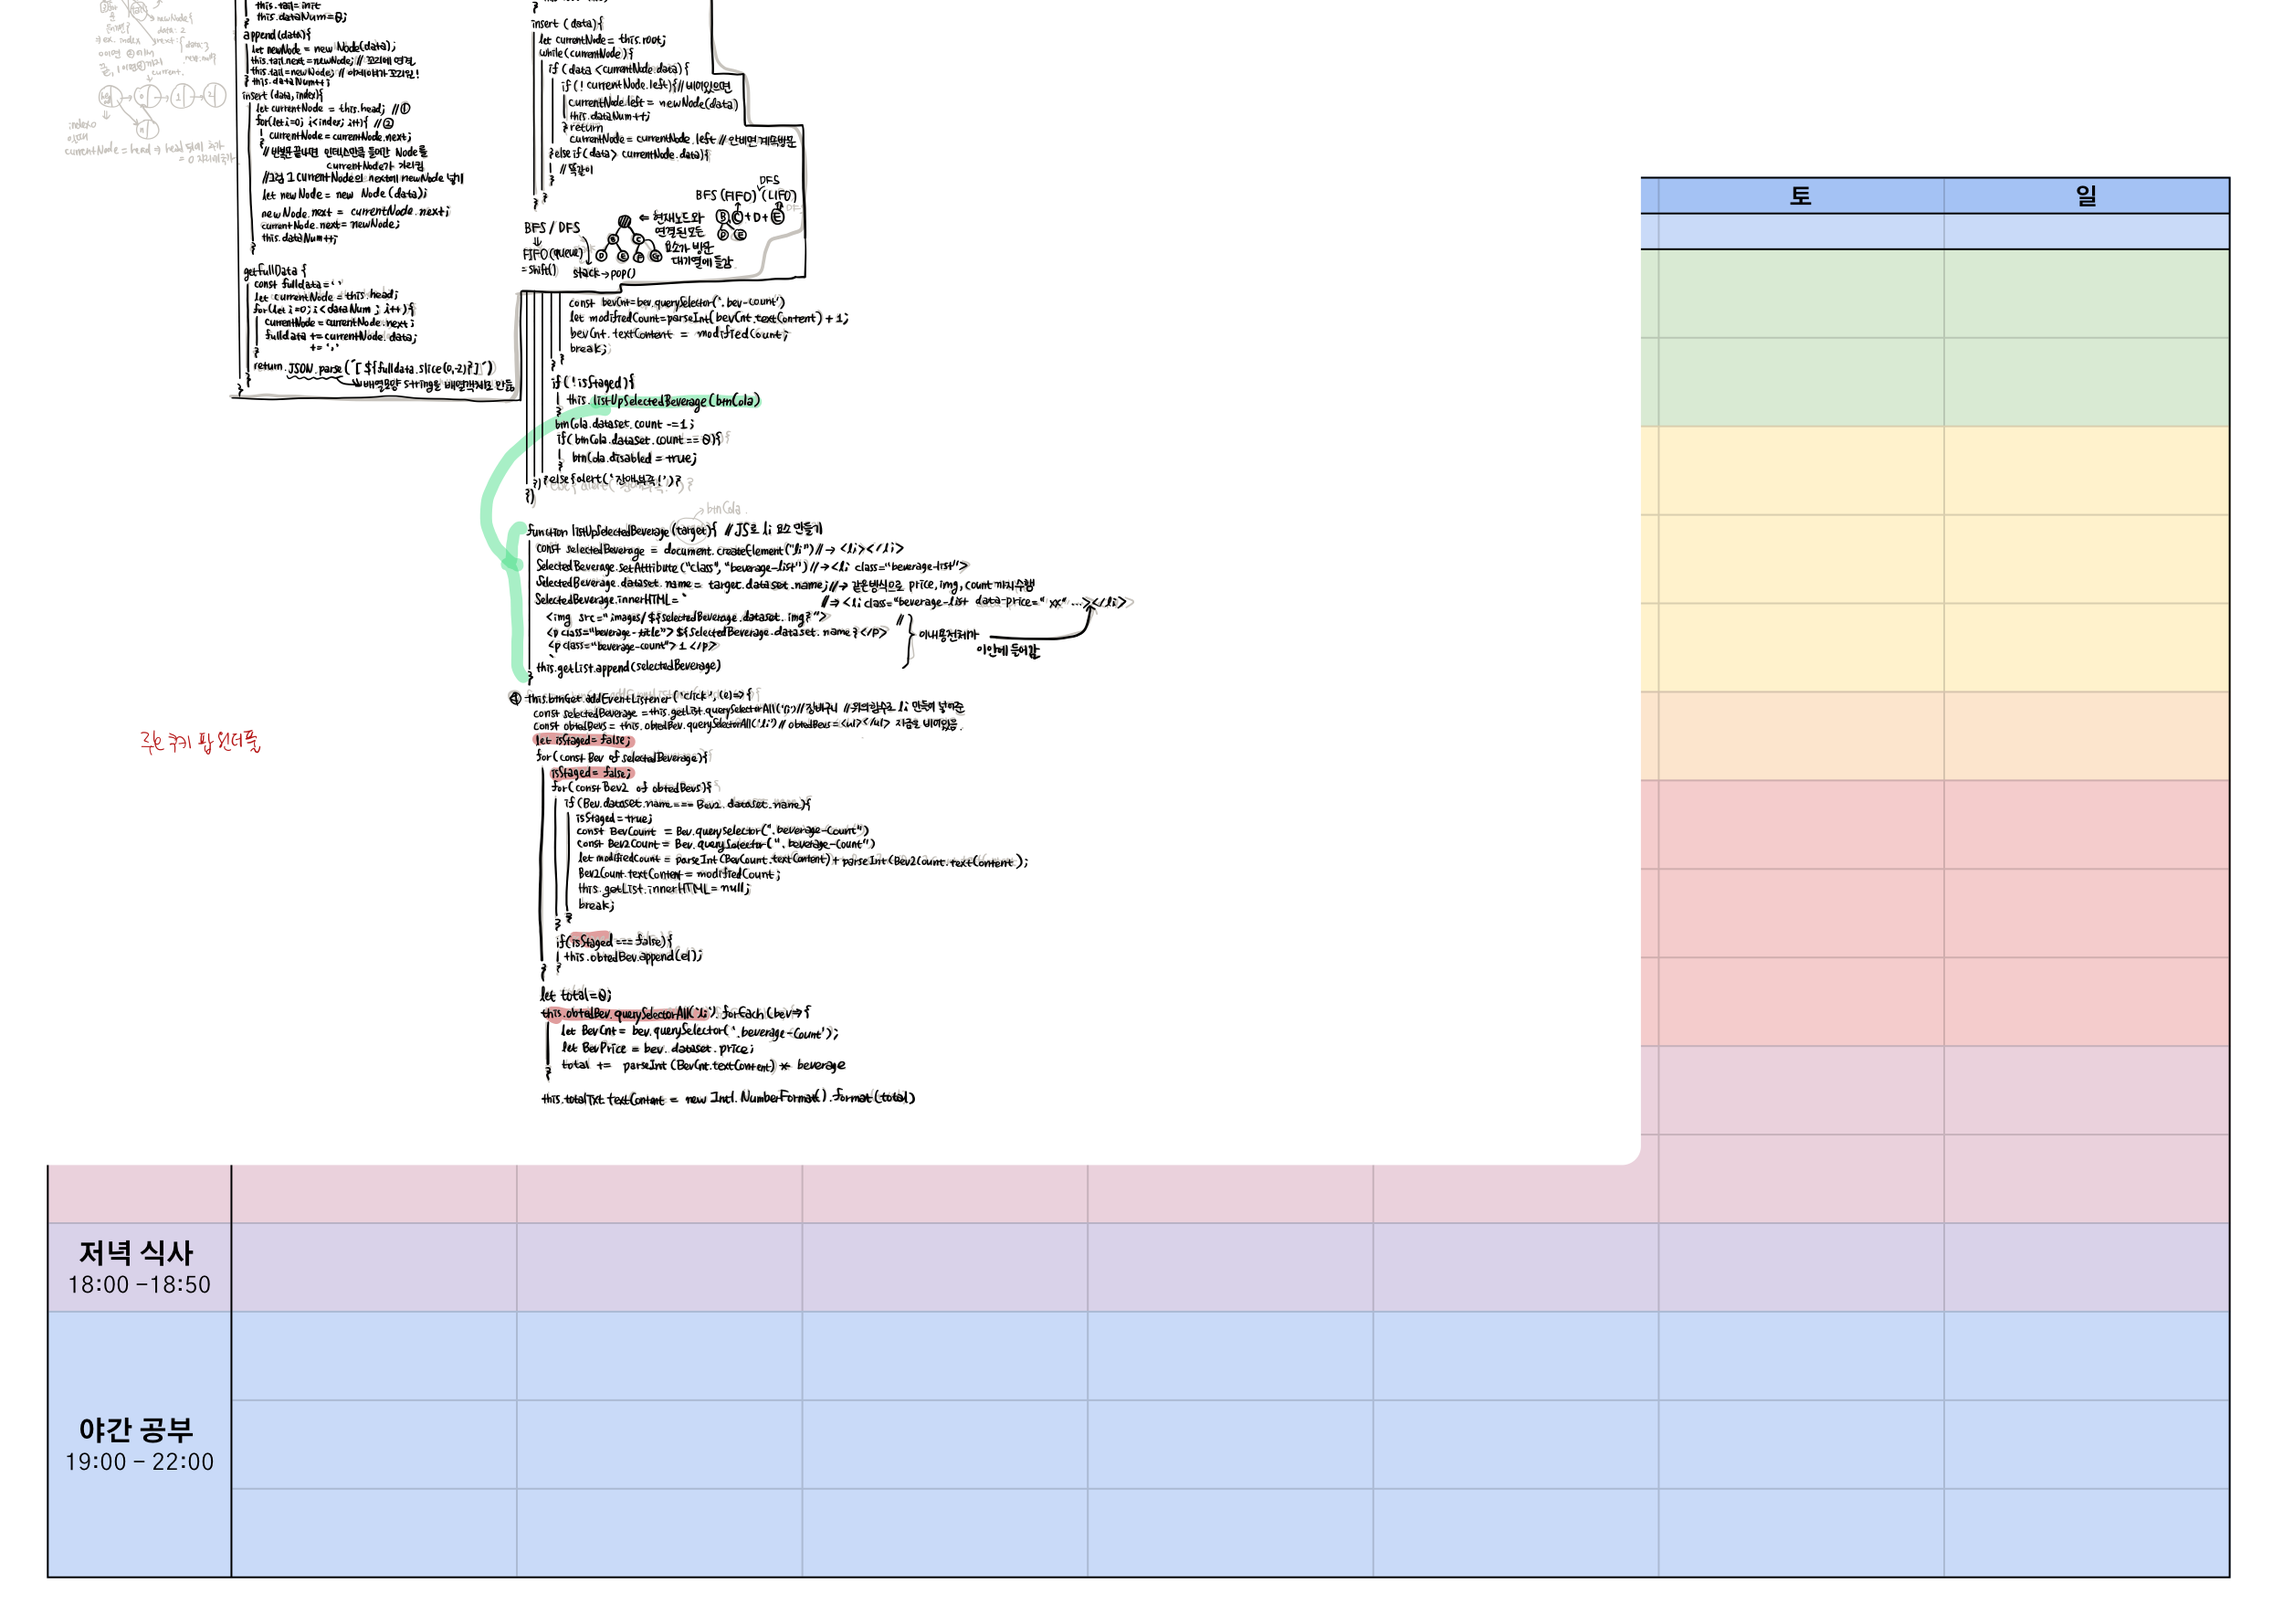
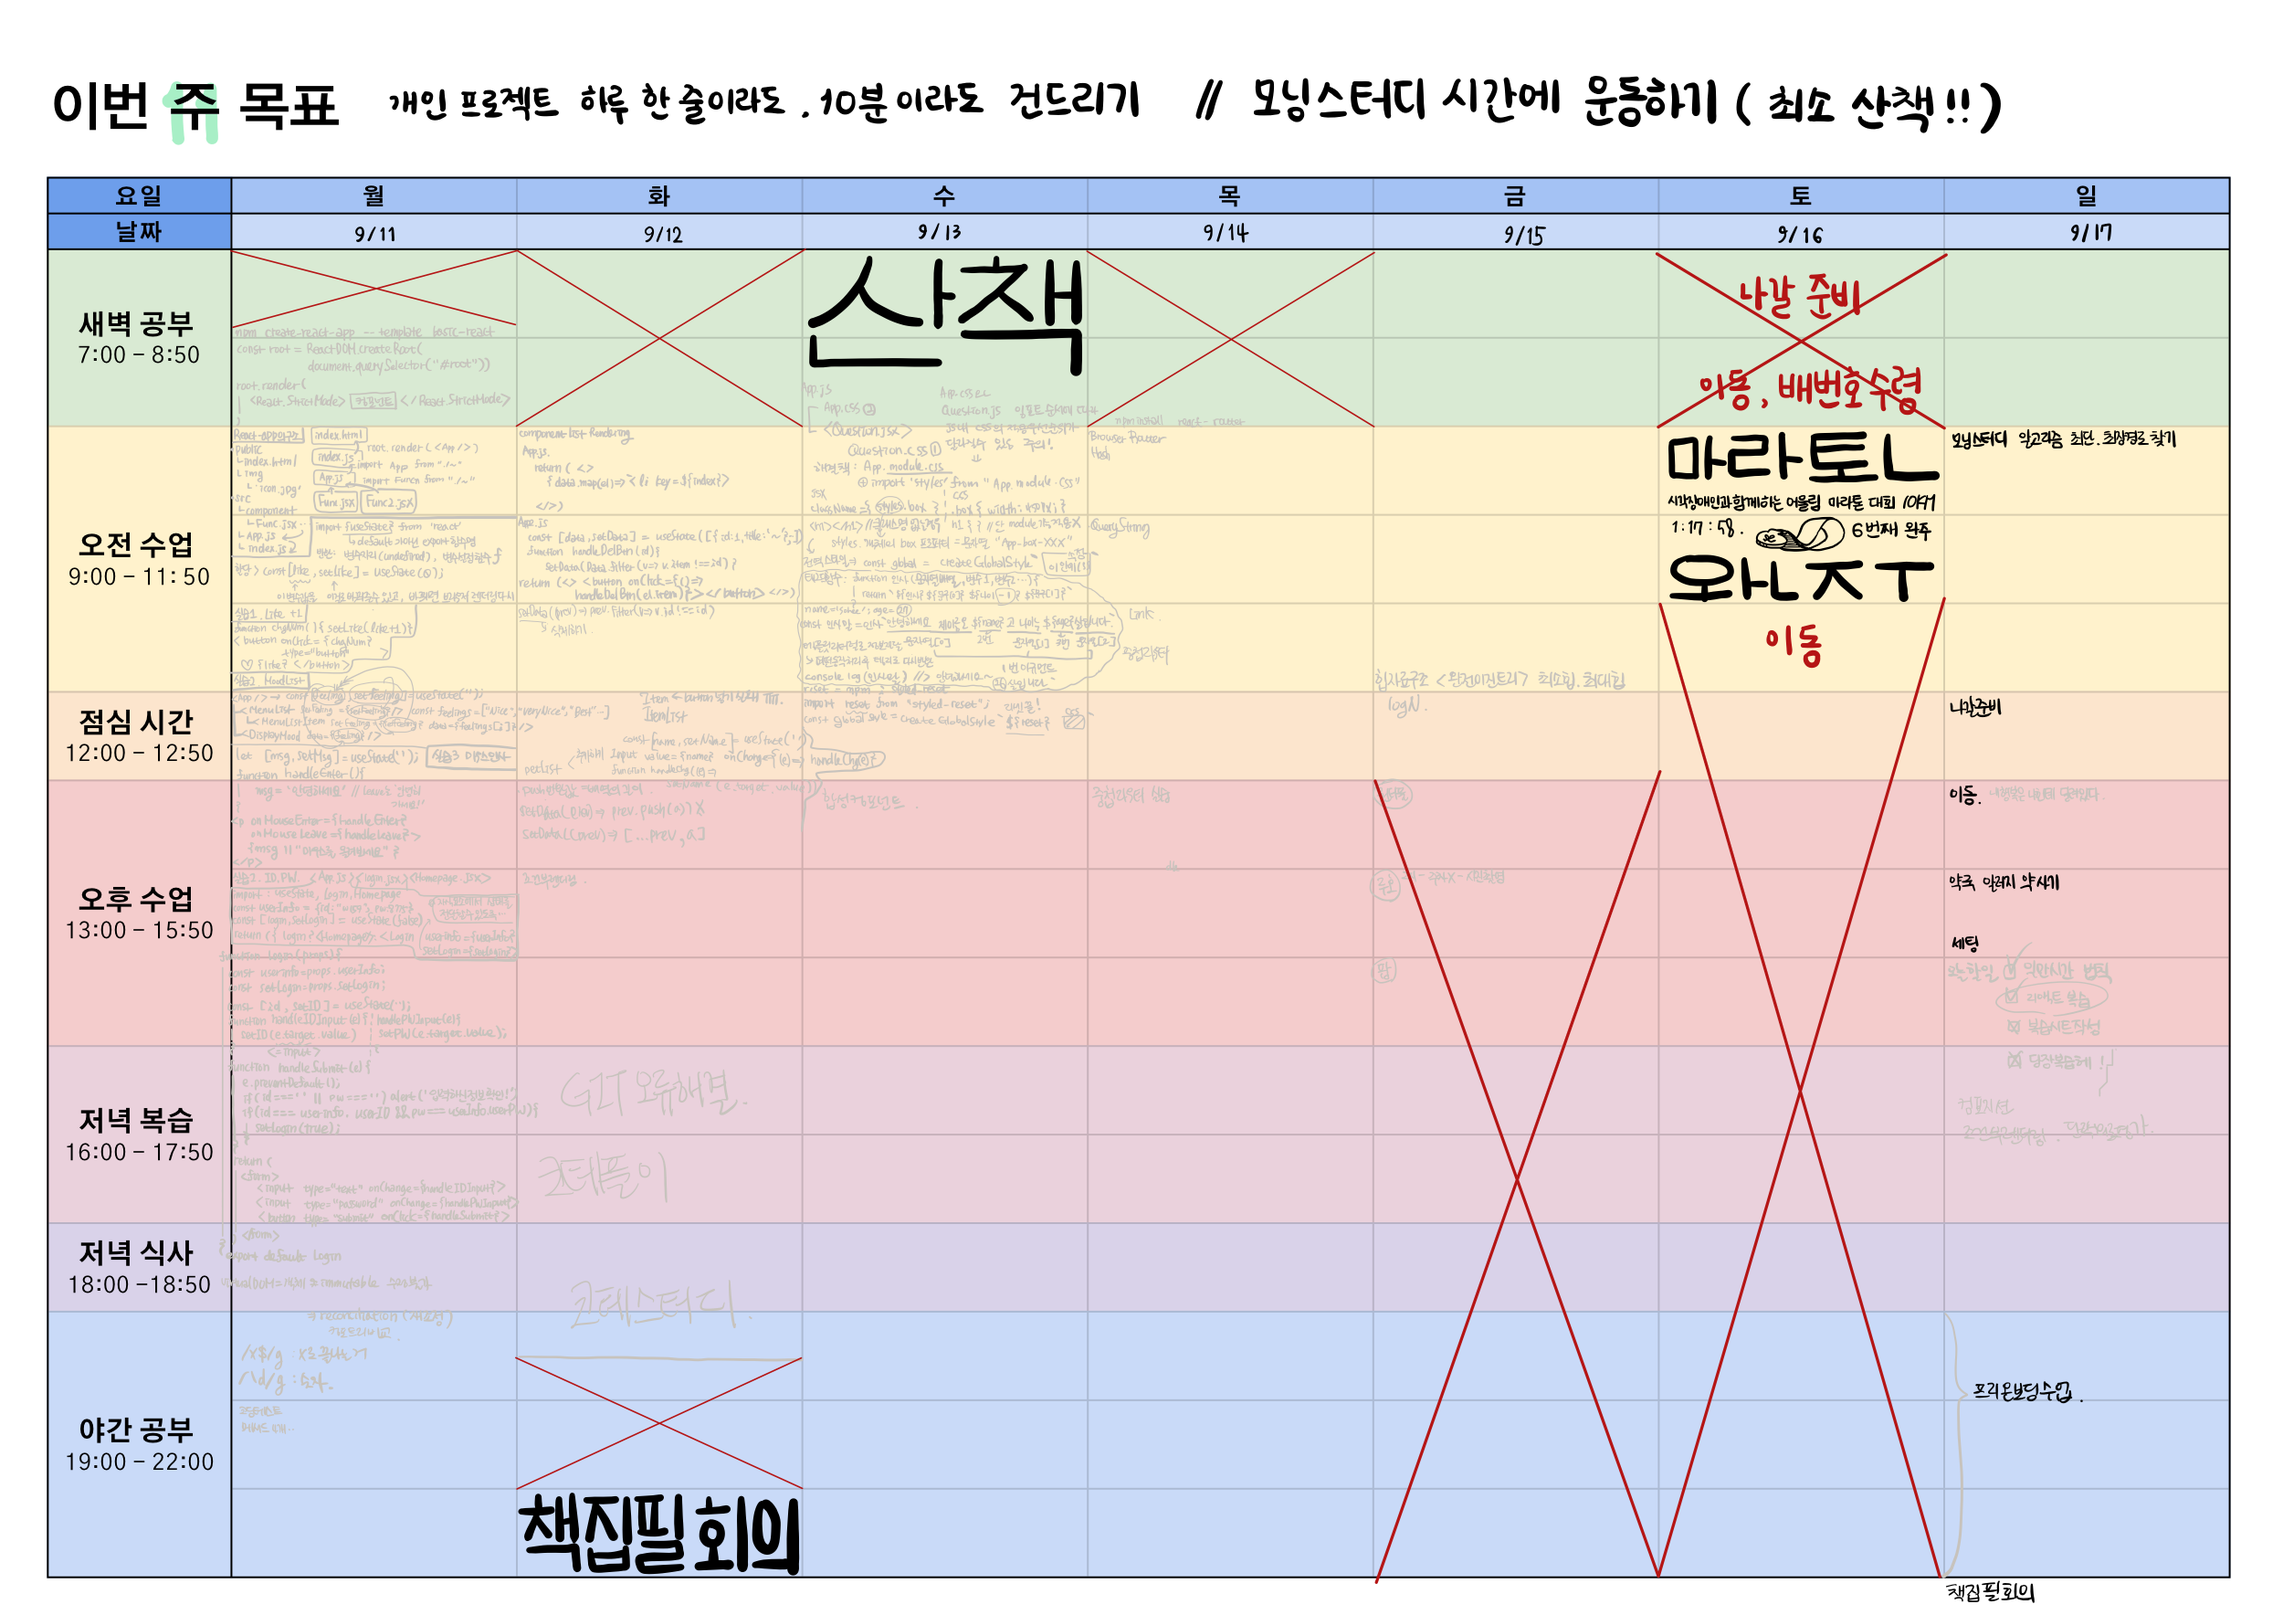
Add: 11주차 복습.md (개선점 항목 추가)

diff --git a/Review/11주차 복습.md b/Review/11주차 복습.md
@@ -1,0 +1,50 @@
+# 11주차 복습
+![img](../images/planner_11.png)
+
+## [React 리액트]
+### `2023 09 11 월` [[React] useState ](https://github.com/sthgml/FES7/commit/9f136d325f9917517d7e94102d9db461f982f580)
+- import { useState } from 'react'
+- const [like, setLike] = useState(0)
+
+### `2023 09 12 화` [[React] 리스트, 조건부 렌더링](https://github.com/sthgml/FES7/commit/af92b59558e5a7aadca06de1c7797d5cef57186d) 
+
+### `2023 09 13 수` [[React] 스타일 컴포넌트](https://github.com/sthgml/FES7/commit/9b41520125b4e4971da90966e807eab80994895b)
+- styled-components 
+> - createGlobalStyle``
+> - styled-reset ${reset}
+> - styled.div``
+> - 태그드 템플릿 등...
+- composition (합성 컴포넌트 - ex. App > Card > CardDiv)
+
+### `2023 09 14 목` [[React] 라우터, useEffect ](https://github.com/sthgml/FES7/commit/6deaf665943c5a42a2d682c76a1eb286f8d1dce0)
+- router (BrowserRouter > Link / Routes > <Route path="/url/" element={<컴포넌트/>}>)
+- useEffect
+
+### `2023 09 15 금` [책집필]힙자료구조
+
+### `2023 09 16 토` 마라톤, 코테풀이
+- 시각장애인과 함께하는 어울림 마라톤, 10km : 1시간 17분
+- [[코딩테스트] lv.0](https://github.com/sthgml/Programmers_Algorithm/commit/70275e1d4f6c463eb35befe09de0a56f4c051012)
+
+### `2023 09 17 일` [[React 과제] 1만시간의법칙](https://github.com/sthgml/FES7/commit/7bfa4c2577b80175c6b0282f9db063c13c41efb4), [[책집필] 알고리즘 ](https://github.com/sthgml/FES7/commit/f513f5a01c68fcb69c7194b086fdd6bc0dc3feb9)
+- 합성 컴포넌트 (composition)
+- 스타일드 컴포넌트 (styled-components)
+- 조건부 렌더링 활용해서 모달 띄우기
+- 알고리즘 (최단경로, 최장경로찾기)
+
+## [개선점] 이번 주는 반성할 게 많다.
+### `1. 시간관리` 
+- 외모, 쇼핑 등에 눈 돌아가는 시간이 늘어남
+- 복습시트 작성이 부담스러워짐
+- 할 일이 쌓이니까 '하기 싫다'는 생각 때문에 오히려 아무것도 안 함
+- <strong style="color:salmon">▶  한 가지 일을 오래 잡고 있지 말고 시간을 정해놓고 돌릴 것!</strong>
+
+### `2. 체력관리`
+- 기상시간이 늦춰지면서 복습 시트 작성 시간도 부족
+- 자도 자도 피곤하고, 마라톤 기록도 느려졌음
+- <strong style="color:salmon">▶ 검도든 달리기든 주 3회는 하려고 노력할 것!!</strong>
+
+### `3. 학습`
+- 수업시간에 집중을 못하고 있음.
+- 책집필, 스터디 등 부수적인 활동을 여러가지 하고 있지만 가장 중요한 것은 수업 내용을 최대한 습득하는 것인데 그걸 놓치고 있음. 
+- <strong style="color:salmon">▶ 쉬는 시간에 복습 시트 작성하려고 하지 말고 수업 중간 중간 키워드 써놓거나 아예 필기를 할 것!!! </strong>

diff --git a/Review/10주차 복습.md b/Review/10주차 복습.md
@@ -1,6 +1,6 @@
 # 10주차 복습
 ![img](../images/planner_10.png)
-![img](../images/planner_11.png)
+![img](../images/planner_10_2.png)
 
 ## [JS]
 ### `2023 09 04 월` [[JS] async/await, fetch.then.catch, ](https://github.com/sthgml/FES7/commit/385b40700fcedd73579595b3973cc2ec08297ddc)
